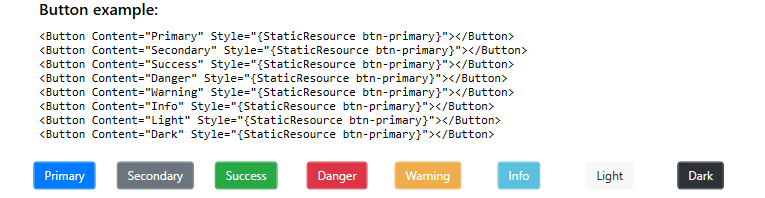
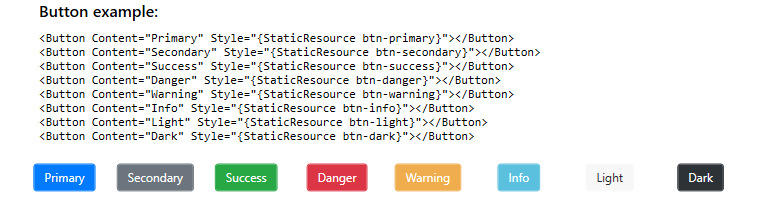
fixed example text

diff --git a/BootstrapDemo/MainWindow.xaml.cs b/BootstrapDemo/MainWindow.xaml.cs
@@ -24,21 +24,23 @@ namespace BootstrapDemo
         {
             InitializeComponent();
             TBl_BtnsExample.Text = "<Button Content=\"Primary\" Style=\"{StaticResource btn-primary}\"></Button>" + "\n" +
-                "<Button Content=\"Secondary\" Style=\"{StaticResource btn-primary}\"></Button>" + "\n" +
-                "<Button Content=\"Success\" Style=\"{StaticResource btn-primary}\"></Button>" + "\n" +
-                "<Button Content=\"Danger\" Style=\"{StaticResource btn-primary}\"></Button>" + "\n" +
-                "<Button Content=\"Warning\" Style=\"{StaticResource btn-primary}\"></Button>" + "\n" +
-                "<Button Content=\"Info\" Style=\"{StaticResource btn-primary}\"></Button>" + "\n" +
-                "<Button Content=\"Light\" Style=\"{StaticResource btn-primary}\"></Button>" + "\n" +
-                "<Button Content=\"Dark\" Style=\"{StaticResource btn-primary}\"></Button>" + "\n";
+                "<Button Content=\"Secondary\" Style=\"{StaticResource btn-secondary}\"></Button>" + "\n" +
+                "<Button Content=\"Success\" Style=\"{StaticResource btn-success}\"></Button>" + "\n" +
+                "<Button Content=\"Danger\" Style=\"{StaticResource btn-danger}\"></Button>" + "\n" +
+                "<Button Content=\"Warning\" Style=\"{StaticResource btn-warning}\"></Button>" + "\n" +
+                "<Button Content=\"Info\" Style=\"{StaticResource btn-info}\"></Button>" + "\n" +
+                "<Button Content=\"Light\" Style=\"{StaticResource btn-light}\"></Button>" + "\n" +
+                "<Button Content=\"Dark\" Style=\"{StaticResource btn-dark}\"></Button>" + "\n";
+
             TBl_OutlBtnsExample.Text = "<Button Content=\"Primary\" Style=\"{StaticResource btn-outline-primary}\"></Button>" + "\n" +
-                "<Button Content=\"Secondary\" Style=\"{StaticResource btn-outline-primary}\"></Button>" + "\n" +
-                "<Button Content=\"Success\" Style=\"{StaticResource btn-outline-primary}\"></Button>" + "\n" +
-                "<Button Content=\"Danger\" Style=\"{StaticResource btn-outline-primary}\"></Button>" + "\n" +
-                "<Button Content=\"Warning\" Style=\"{StaticResource btn-outline-primary}\"></Button>" + "\n" +
-                "<Button Content=\"Info\" Style=\"{StaticResource btn-outline-primary}\"></Button>" + "\n" +
-                "<Button Content=\"Light\" Style=\"{StaticResource btn-outline-primary}\"></Button>" + "\n" +
-                "<Button Content=\"Dark\" Style=\"{StaticResource btn-outline-primary}\"></Button>" + "\n";
+                "<Button Content=\"Secondary\" Style=\"{StaticResource btn-outline-secondary}\"></Button>" + "\n" +
+                "<Button Content=\"Success\" Style=\"{StaticResource btn-outline-success}\"></Button>" + "\n" +
+                "<Button Content=\"Danger\" Style=\"{StaticResource btn-outline-danger}\"></Button>" + "\n" +
+                "<Button Content=\"Warning\" Style=\"{StaticResource btn-outline-warning}\"></Button>" + "\n" +
+                "<Button Content=\"Info\" Style=\"{StaticResource btn-outline-info}\"></Button>" + "\n" +
+                "<Button Content=\"Light\" Style=\"{StaticResource btn-outline-light}\"></Button>" + "\n" +
+                "<Button Content=\"Dark\" Style=\"{StaticResource btn-outline-dark}\"></Button>" + "\n";
+
             TBl_AlertsExample.Text = "<Border Style=\"{StaticResource border-alert-primary}>" + "\n" +
                 "\t" + "<TextBlock Style=\"{StaticResource textbox-alert-primary}\" Text=\"Alert primary\"></TextBlock>" + "\n" +
                 "</Border>" + "\n" +
